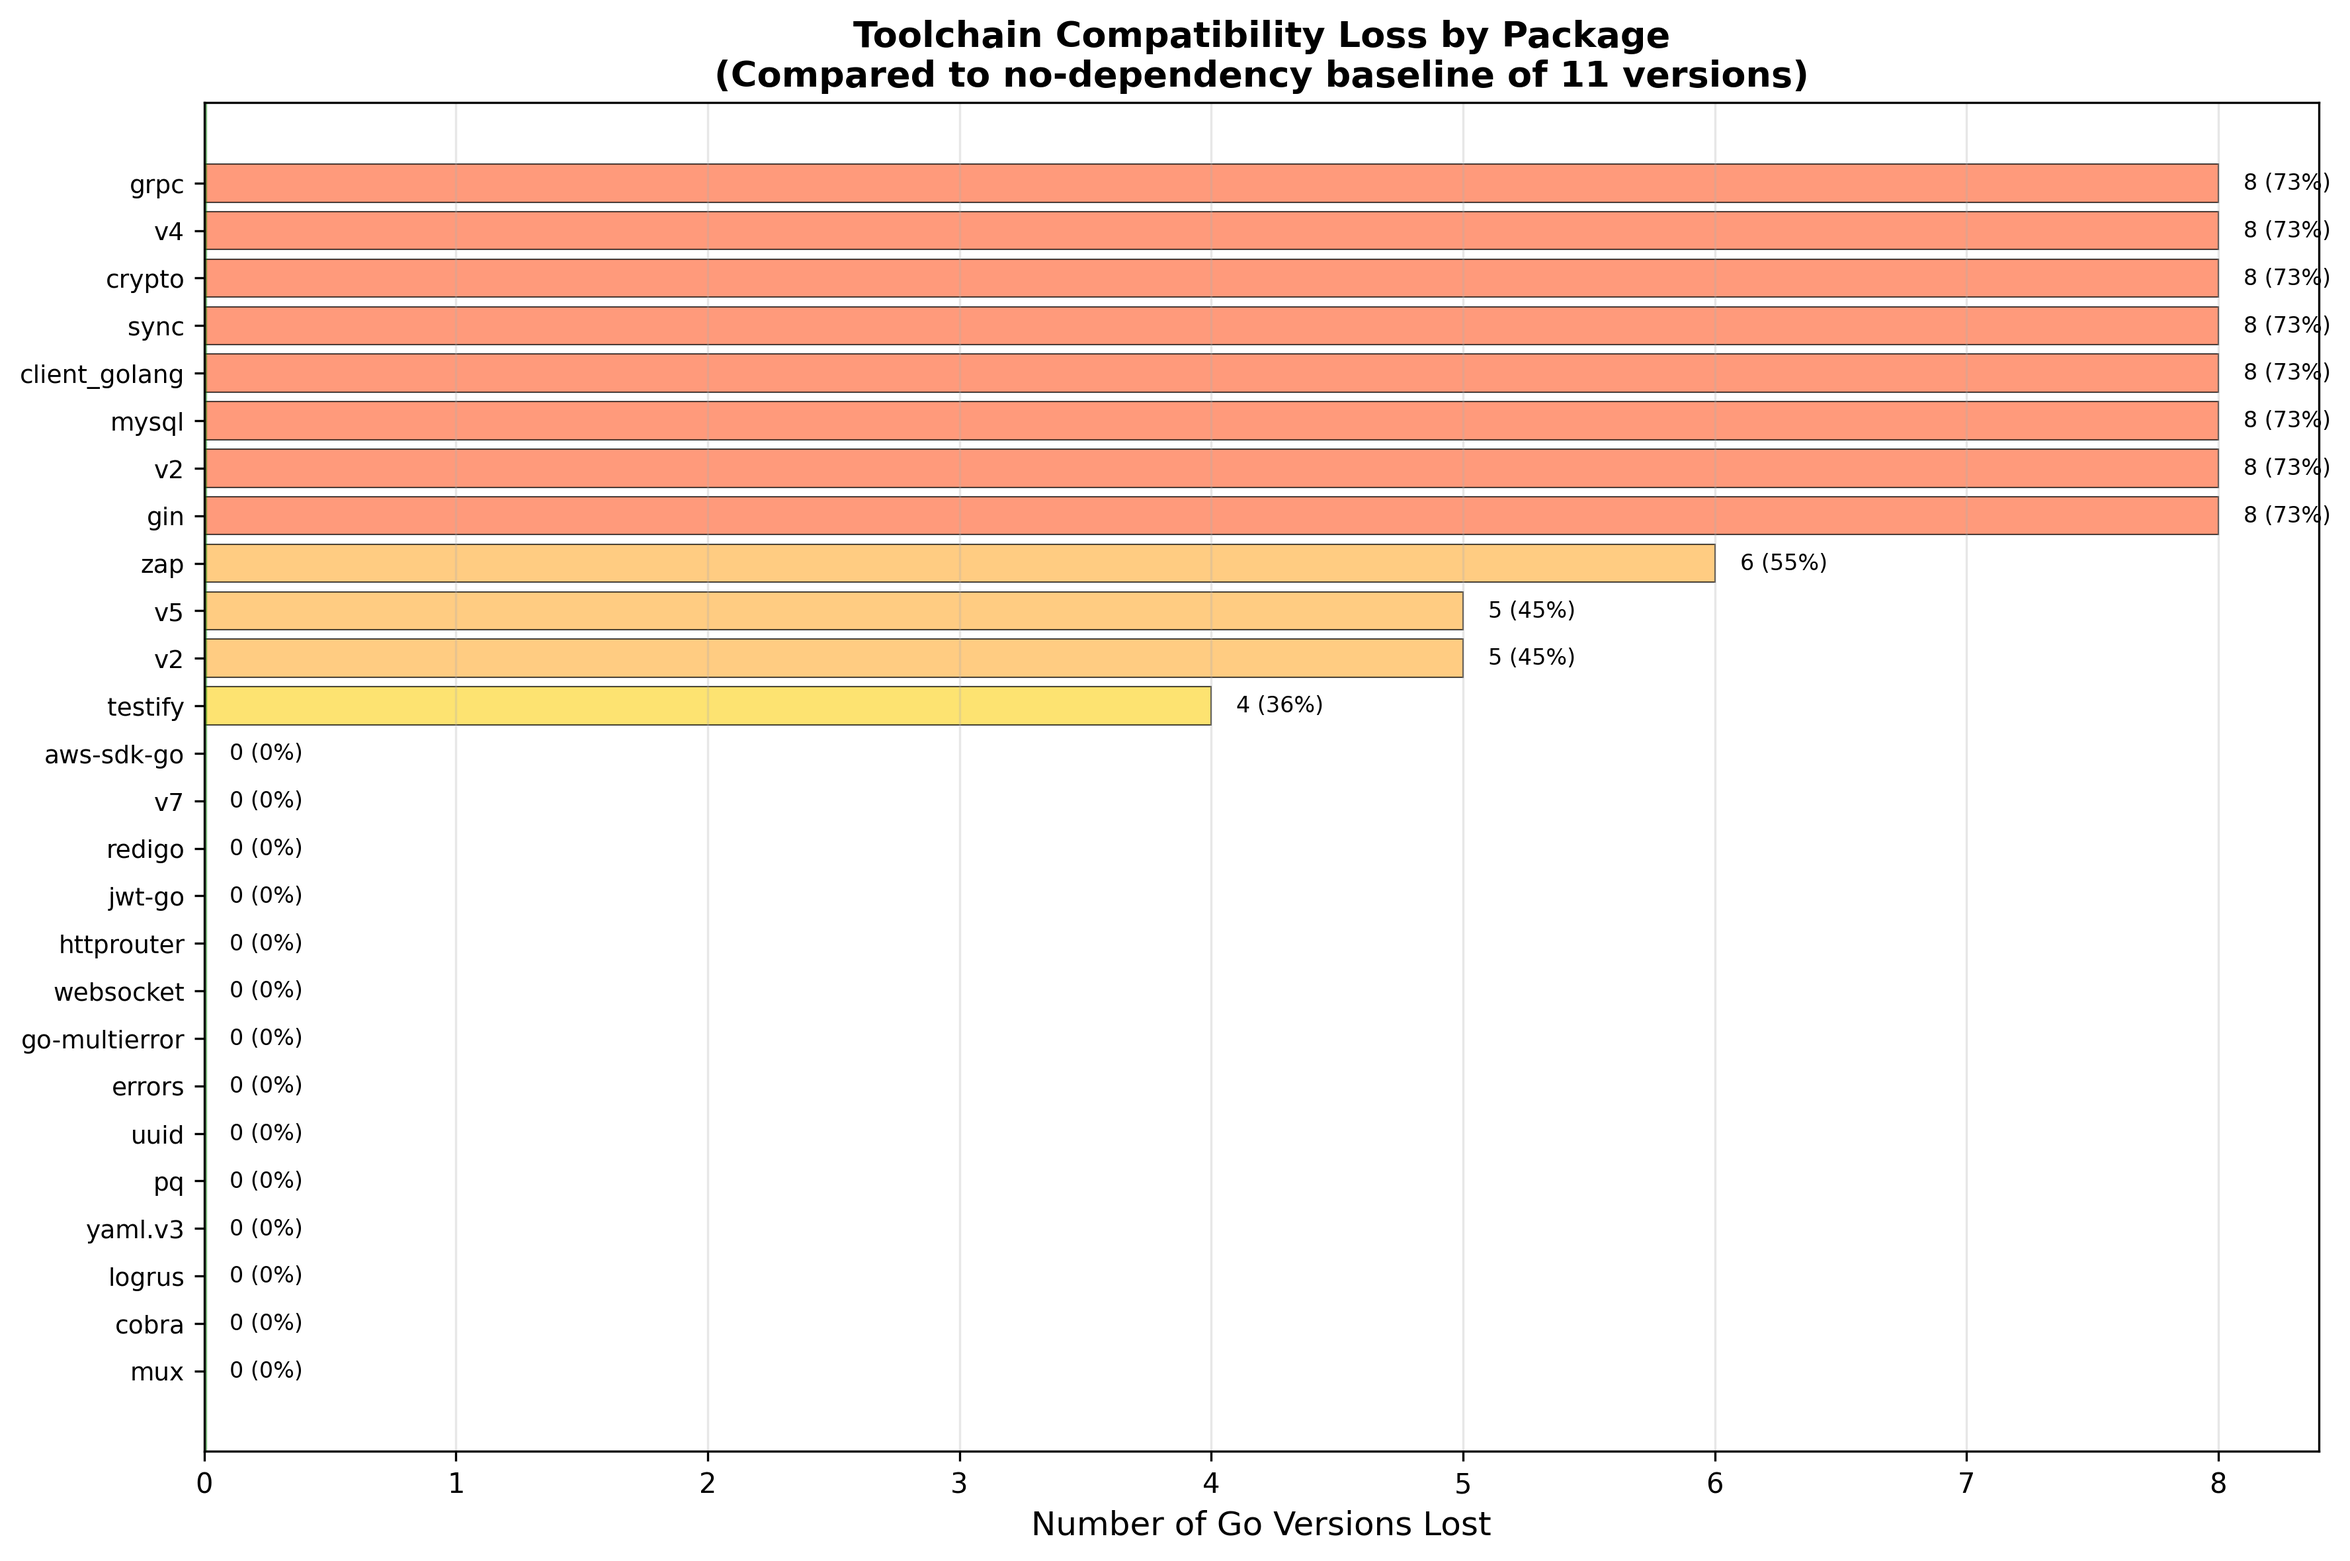
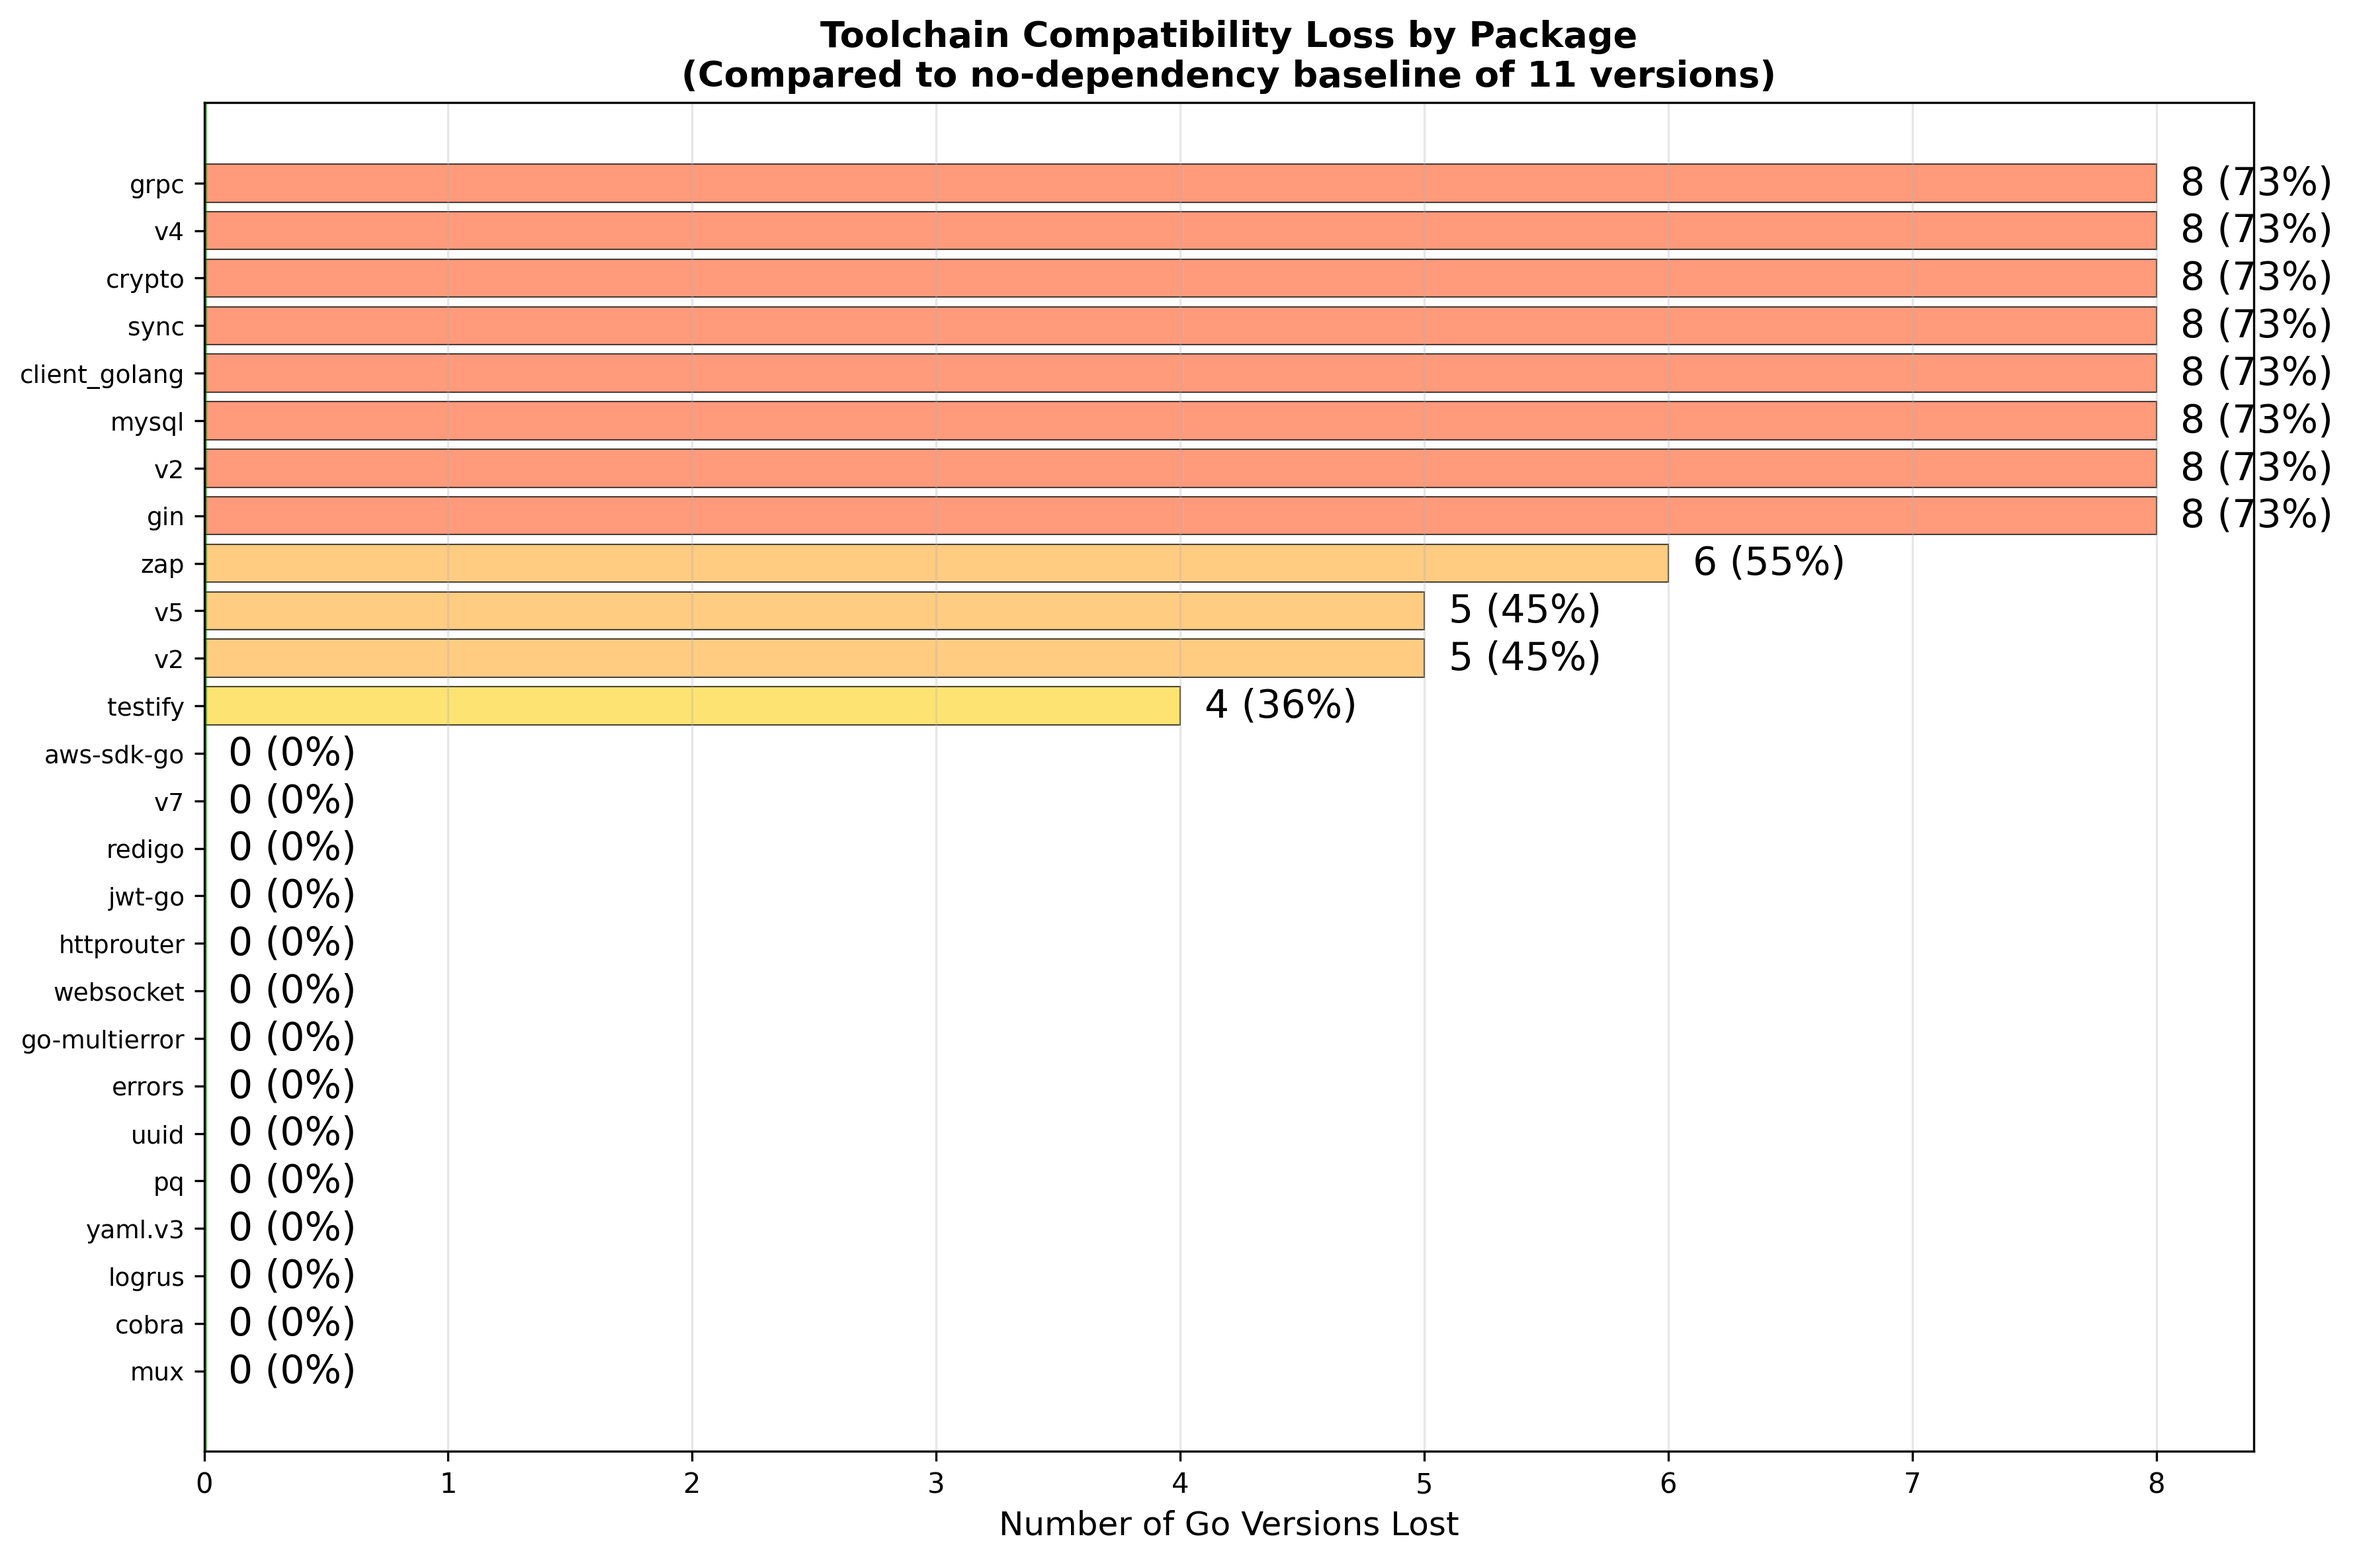
slides

diff --git a/presentation/index.html b/presentation/index.html
@@ -385,7 +385,7 @@
 
   <div class="step slide-image" data-x="12000" data-y="0">
     <div class="slide-content">
-      <img src="../compatibility-timeline-rust.png" alt="Rust compatibility timeline">
+      <img src="assets/compatibility-timeline-rust.png" alt="Rust compatibility timeline">
     </div>
     <aside class="notes">
       Hard to read; visual<br>
@@ -537,7 +537,7 @@
 
   <div class="step slide-image" data-x="12000" data-y="0">
     <div class="slide-content">
-      <img src="../compatibility-timeline-go.png" alt="Go compatibility timeline">
+      <img src="assets/compatibility-timeline-go.png" alt="Go compatibility timeline">
     </div>
     <aside class="notes">
       todo

diff --git a/visualize-rust.py b/visualize-rust.py
@@ -126,7 +126,7 @@ rust_versions = {
 # Baseline: Edition 2018 stabilized in Rust 1.31.
 baseline_version = '1.31.1'
 baseline_date = datetime.strptime(rust_versions[baseline_version][0], '%Y-%m-%d')
-latest_date = datetime.strptime(rust_versions['1.90.0'][0], '%Y-%m-%d')
+latest_date = datetime(2026, 1, 1)
 
 # Process data.
 crates_data = []
@@ -204,7 +204,7 @@ for crate_name, rust_version, date_str, versions_lost, impact in crates_data:
 total_days = (latest_date - baseline_date).days
 ax1.set_xlim(0, total_days)
 ax1.set_ylim(-0.5, len(crates_data) - 0.5)
-ax1.set_xlabel('Time', fontsize=int(cs.FONT_AXIS_LABEL*fs))
+ax1.set_xlabel('')
 ax1.set_yticks([])
 
 # Add year markers
@@ -218,7 +218,7 @@ for year in range(2019, 2026):
 
 # Set x-axis labels to years
 ax1.set_xticks([pos for pos, _ in year_markers])
-ax1.set_xticklabels([label for _, label in year_markers])
+ax1.set_xticklabels([label for _, label in year_markers], fontsize=int(cs.FONT_XTICK*fs))
 
 # Add grid
 ax1.grid(axis='x', alpha=cs.GRID_ALPHA)
@@ -234,7 +234,8 @@ legend_elements = [
     mpatches.Patch(color=color_map["high"], label='High (41-50 versions lost)', alpha=cs.BAR_ALPHA),
     mpatches.Patch(color=color_map["severe"], label='Severe (>50 versions lost)', alpha=cs.BAR_ALPHA),
 ]
-ax1.legend(handles=legend_elements, loc='upper left', fontsize=int(cs.FONT_LEGEND*fs), title='Impact Severity')
+ax1.legend(handles=legend_elements, loc='upper left', fontsize=int(cs.FONT_LEGEND*fs),
+           title='Impact Severity', title_fontsize=int(cs.FONT_LEGEND_TITLE*fs))
 
 plt.tight_layout()
 plt.savefig('compatibility-timeline-rust.png', dpi=cs.DPI, bbox_inches='tight')

diff --git a/visualize-go.py b/visualize-go.py
@@ -50,7 +50,7 @@ go_versions = {
 # Baseline.
 baseline_version = '1.13'
 baseline_date = datetime.strptime(go_versions[baseline_version][0], '%Y-%m-%d')
-latest_date = datetime.strptime(go_versions['1.24'][0], '%Y-%m-%d')
+latest_date = datetime(2026, 1, 1)
 
 # Process data.
 packages_data = []
@@ -131,7 +131,7 @@ for package_name, oldest_ver, oldest_date_str, versions_lost, impact in packages
 total_days = (latest_date - baseline_date).days
 ax1.set_xlim(0, total_days)
 ax1.set_ylim(-0.5, len(packages_data) - 0.5)
-ax1.set_xlabel('Time', fontsize=int(cs.FONT_AXIS_LABEL*fs))
+ax1.set_xlabel('')
 ax1.set_yticks([])
 
 # Add year markers
@@ -145,7 +145,7 @@ for year in range(2020, 2026):
 
 # Set x-axis labels to years
 ax1.set_xticks([pos for pos, _ in year_markers])
-ax1.set_xticklabels([label for _, label in year_markers])
+ax1.set_xticklabels([label for _, label in year_markers], fontsize=int(cs.FONT_XTICK*fs))
 
 # Add grid
 ax1.grid(axis='x', alpha=cs.GRID_ALPHA)
@@ -161,7 +161,8 @@ legend_elements = [
     mpatches.Patch(color=color_map["high"], label='High (7-8 versions lost)', alpha=cs.BAR_ALPHA),
     mpatches.Patch(color=color_map["severe"], label='Severe (9+ versions lost)', alpha=cs.BAR_ALPHA),
 ]
-ax1.legend(handles=legend_elements, loc='upper left', fontsize=int(cs.FONT_LEGEND*fs), title='Impact Severity')
+ax1.legend(handles=legend_elements, loc='upper left', fontsize=int(cs.FONT_LEGEND*fs),
+           title='Impact Severity', title_fontsize=int(cs.FONT_LEGEND_TITLE*fs))
 
 plt.tight_layout()
 plt.savefig('compatibility-timeline-go.png', dpi=cs.DPI, bbox_inches='tight')

diff --git a/chart_style.py b/chart_style.py
@@ -34,7 +34,9 @@ FONT_SUBTITLE = 11
 FONT_AXIS_LABEL = 12
 FONT_PKG_NAME = 9
 FONT_VERSION_LABEL = 7
-FONT_LEGEND = 8
+FONT_LEGEND = 14
+FONT_LEGEND_TITLE = 16
+FONT_XTICK = 18
 FONT_COUNT_LABEL = 10
 
 # Positioning
